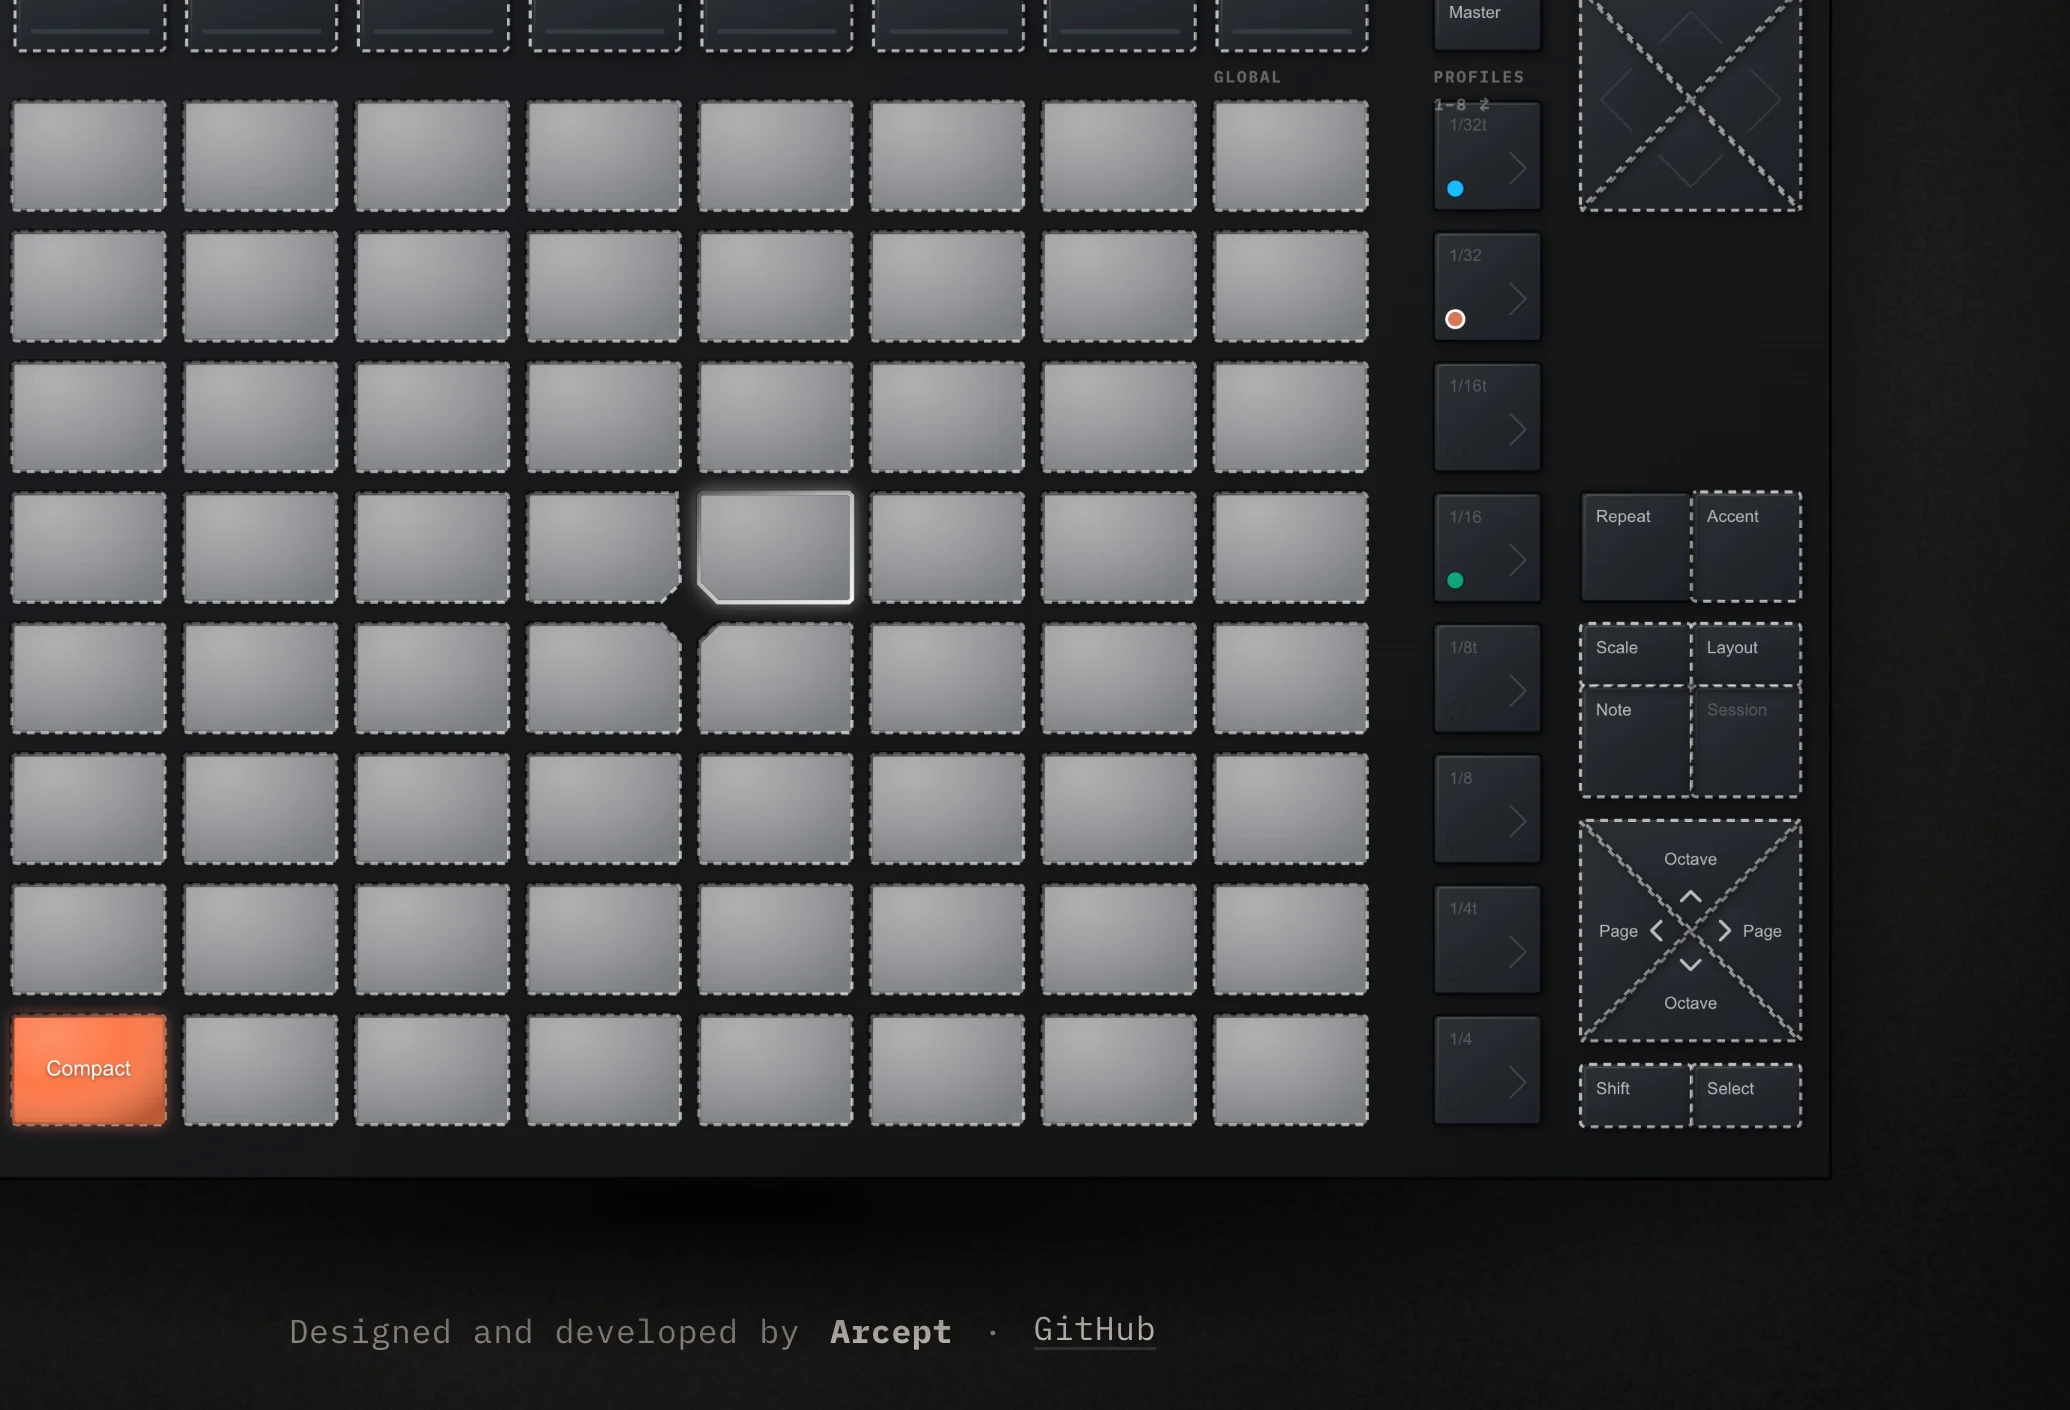
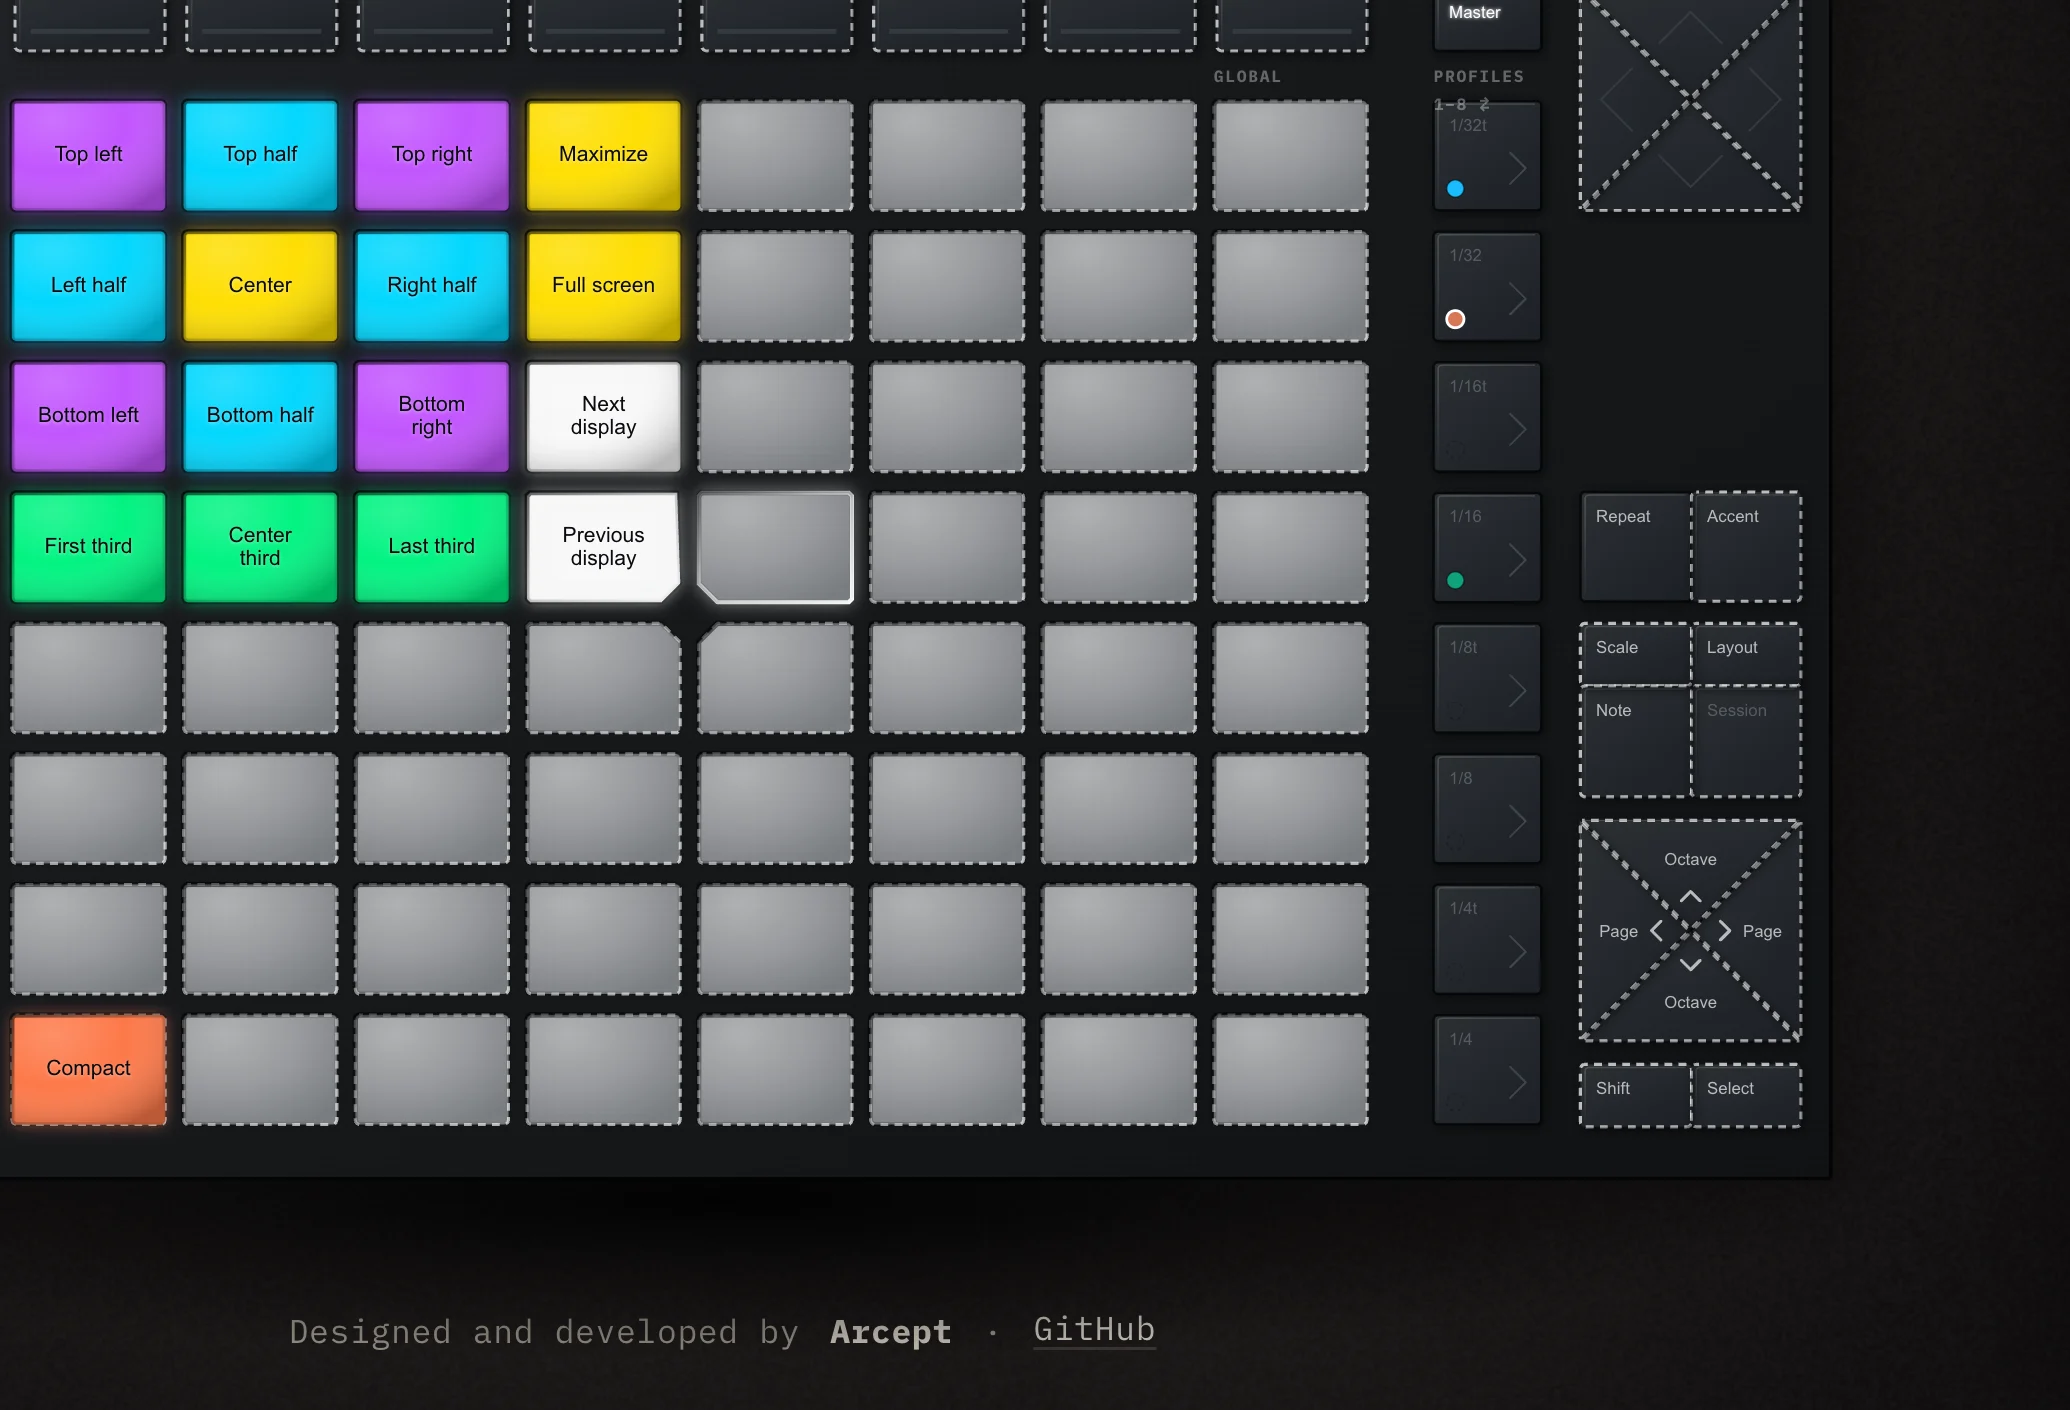
Landing page for 1.0.0: release live, three install routes, window shortcuts in features and FAQ, window screenshots recaptured

diff --git a/site/content.ts b/site/content.ts
@@ -1,7 +1,7 @@
 // All the words and links on the page, in one place. Keep this consistent with README.md.
 
-/** Flip to true when the first release is published and the .dmg exists. */
-export const RELEASE_LIVE = false;
+/** True once the .dmg is published on GitHub Releases (Push Deck 1.0.0 is out). */
+export const RELEASE_LIVE = true;
 
 export const REPO = "https://github.com/arcept/pushdeck";
 export const RELEASES = `${REPO}/releases/latest`;
@@ -13,8 +13,8 @@ export const features = [
   { title: "Profiles that follow your app", text: "Every app gets its own pads, buttons and knobs. Switch apps and the Push switches with you." },
   { title: "A live display", text: "The 960×160 screen shows clocks, timers, usage meters, the tab in front and a media player." },
   { title: "A replica to edit on", text: "A copy of your Push in a window: click a pad to set it up, mirror the display, arrange widgets." },
+  { title: "Window shortcuts", text: "Sixteen built-in pads snap and resize the front window in any profile: halves, quarters, thirds, maximize, centre, full screen, next or previous display." },
   { title: "A menu bar app", text: "Pin a profile, set the brightness or turn the Push on and off without opening anything." },
-  { title: "Set up in minutes", text: "First-run setup checks your Push and explains each macOS permission in plain words." },
   { title: "Private by design", text: "Runs on your Mac. No account, no cloud, no tracking. It listens on 127.0.0.1 only." },
 ];
 
@@ -35,9 +35,8 @@ export const steps = [
 
 export const install = [
   { id: "dmg", label: "Download", cmd: "", note: "The .dmg from GitHub Releases. Drag Push Deck to Applications.*" },
-  { id: "brew", label: "Homebrew", cmd: "brew install --cask arcept/tap/pushdeck", note: "Tap coming with the first release." },
+  { id: "brew", label: "Homebrew", cmd: "brew install --cask arcept/tap/pushdeck", note: "Installs the same app as the .dmg, from the arcept tap." },
   { id: "curl", label: "One line", cmd: "curl -fsSL https://raw.githubusercontent.com/arcept/pushdeck/main/get.sh | bash", note: "Checks the checksum. No security prompt." },
-  { id: "src", label: "From source", cmd: "./install.sh", note: "Works today. Clone the repo first." },
 ];
 
 /** Quick answers. Keep every line true to the app and the README. */
@@ -47,7 +46,8 @@ export const faq = [
   { q: "Which computers does it run on?", a: "Macs with Apple Silicon, on macOS 13 or newer. The app carries its own Python and helpers, so there is nothing else to install. The music visualizer needs macOS 14.2. There is no Windows or Linux version." },
   { q: "Does it send anything anywhere?", a: "No account, no cloud, no tracking, and no Push Deck server to send anything to. The app listens on 127.0.0.1 only, so other devices on your network can't reach it. One optional feature touches a login: live Claude usage reads the Claude desktop app's sign-in from the macOS Keychain, in memory only. It asks first and can be switched off at any time. The privacy section above lists everything it touches." },
   { q: "Why does my Mac say “unidentified developer”?", a: "Push Deck is signed ad hoc rather than with a paid Apple Developer ID, so macOS shows an “unidentified developer” warning the first time you open a downloaded copy. Right-click the app, choose Open, then Open, and you won't be asked again. The one-line installer checks the download's checksum and avoids the warning." },
-  { q: "Can I make my own profiles?", a: "Yes. A profile is an app (or a few apps) with its own pad colours, labels and actions: shortcuts, opening apps and links, typing text, running Shortcuts or shell commands, media keys. Drag actions onto the replica in the app window to set them up. In Auto mode the Push switches to a profile when its app comes to the front; Master keeps one pinned. It starts with profiles for Claude Code, Browser and ChatGPT / Codex." },
+  { q: "Can it move and resize my windows?", a: "Yes. A built-in layer of 16 pads (the top-left 4×4 block) snaps and resizes the front window in every profile: halves, quarters, thirds, maximize, centre, full screen, and next or previous display. Switch it on or off globally in Settings, or per profile (Default, On or Off). You can rename and recolour those pads, and put Close window, Minimize window or Full screen on any pad. It needs the Accessibility permission. The layouts are modelled on Rectangle." },
+  { q: "Can I make my own profiles?", a: "Yes. A profile is an app (or a few apps) with its own pad colours, labels and actions: shortcuts, opening apps and links, typing text, running Shortcuts or shell commands, media keys. Drag actions onto the replica in the app window to set them up; any pad can also close, minimize or full-screen the front window. In Auto mode the Push switches to a profile when its app comes to the front; Master keeps one pinned. It starts with profiles for Claude Code, Browser and ChatGPT / Codex." },
   { q: "Is it free? Can I contribute?", a: "It is free and open source under the MIT licence, © Arcept. The code is on GitHub and Issues are open for bugs and ideas. Pull requests are by invitation for now. Push Deck is an independent project and isn't affiliated with Ableton." },
 ];
 
@@ -55,6 +55,7 @@ export const requirements = [
   "Apple Silicon Mac, macOS 13 or newer",
   "An Ableton Push 2 on USB (not the original Push, not Push 3)",
   "The music visualizer needs macOS 14.2",
+  "Accessibility permission, for key shortcuts and the window pads",
   "Chrome, Spotify and the Claude desktop app are optional",
 ];
 

diff --git a/site/app/globals.css b/site/app/globals.css
@@ -237,7 +237,7 @@ h2 { font-size: clamp(30px, 4.4vw, 56px); line-height: 1.08; letter-spacing: -.0
 .shot { border-radius: 20px; border: 1px solid var(--line); }
 figcaption { color: var(--mut); font-size: 14px; margin-top: 12px; }
 
-.installs { display: grid; grid-template-columns: repeat(2, minmax(0, 1fr)); gap: 16px; margin-top: 40px; }
+.installs { display: grid; grid-template-columns: repeat(3, minmax(0, 1fr)); gap: 16px; margin-top: 40px; }
 .installs article { position: relative; min-width: 0; padding: 24px; border-radius: 24px; border: 1px solid var(--line); display: flex; flex-direction: column; gap: 16px; align-items: flex-start; overflow: hidden;
   background: radial-gradient(70% 90% at 0% 0%, color-mix(in srgb, var(--c) 11%, transparent), transparent 62%), #07070b; border-color: rgba(255,255,255,.13); }   /* a soft pad-colour glow in the corner, static */
 .installs header { display: flex; align-items: center; gap: 12px; flex-wrap: wrap; width: 100%; }

diff --git a/site/components/Landing.tsx b/site/components/Landing.tsx
@@ -623,7 +623,7 @@ export default function Landing({ version }: { version: string }) {
           <h2 data-reveal>{copy.installTitle}</h2>
           <div className="installs">
             {install.map((r, i) => {
-              const live = r.id === "src" || RELEASE_LIVE;
+              const live = RELEASE_LIVE;
               return (
                 <article key={r.id} data-reveal style={{ ["--c" as string]: PAD_COLORS[i * 2] }}>
                   <header>

diff --git a/site/UPDATING.md b/site/UPDATING.md
@@ -49,7 +49,7 @@ The page never reads the app's code. Nothing updates itself: a change in the app
 
 **A feature was added or removed.** Update `features` in `content.ts`, the tour if it deserves a step, and the README. Keep the page and the README saying the same thing.
 
-**Release.** Flip `RELEASE_LIVE` in `content.ts` once the .dmg exists on GitHub Releases (the buttons then link to it), and update the Homebrew and one-line install notes. The version comes from `VERSION`. Add a line to `CHANGELOG.md`.
+**Release.** `RELEASE_LIVE` is true (1.0.0 is out); the buttons link to the latest release. The install section shows the README's three routes (Download, Homebrew, One line); build-from-source lives in `docs/DEVELOPING.md` and is not linked from the page. The version comes from `VERSION`. Add a line to `CHANGELOG.md`.
 
 **Name, legal or footer text.** `disclaimer` and the footer in `content.ts` / `Landing.tsx`. The Ableton non-affiliation line, MIT licence, issues-open and "pull requests by invitation" lines must stay.
 
@@ -61,7 +61,7 @@ All captures come from a dev daemon with blank data, so no personal data, tracks
 2. Blank the dev data (this backs it up first): `tools/dev_data.sh blank`.
 3. Start the daemon from the repo: `PYTHONPATH=daemon .venv/bin/python -m push_daemon &` (the UI is at http://127.0.0.1:8472).
 4. Keep the music player off in every capture: `python scripts/capture/pin.py terminal` does it (and pins a profile). Use the repo's venv Python (it has `aiohttp`).
-5. Window captures: a Playwright page at 1600x1000 with `deviceScaleFactor: 3`, then `page.screenshot()`. Click "Hidden" in the Screen switch, then blur focus and move the mouse to a neutral spot (a tooltip stays open otherwise). Profiles follow the app in front when Auto is on: bring Terminal to the front (Claude Code), leave Chrome in front (Browser), bring ChatGPT to the front (Codex). Do that a few seconds into the capture run with `open -a <App>`, because the capture browser takes focus when it opens. Crop the 4800x3000 shots to the regions in section 1 with Pillow and save as WebP (quality about 86).
+5. Window captures: a Playwright page at 1600x1000 with `deviceScaleFactor: 3`, then `page.screenshot()`. Click "Hidden" in the Screen switch, then blur focus and move the mouse to a neutral spot (a tooltip stays open otherwise). Profiles follow the app in front when Auto is on: bring Terminal to the front (Claude Code), leave Chrome in front (Browser), bring ChatGPT to the front (Codex). Do that a few seconds into the capture run with `open -a <App>`, because the capture browser takes focus when it opens. Crop the 4800x3000 shots to the regions in section 1 with Pillow and save as WebP (quality about 86). A blank data folder shows the first-run dialog: set `onboarded` true over the websocket (like `pin.py` does) and add `localStorage push-ui-intro-seen=1`. Expand "Add an action" for `app-ui.webp` and the chip crop, then deselect any pad before the shot. Tour crops (3x, in window units): select 350,420,540,520; drag 500,520,690,470 (hold the Open URL chip over pad 3,4 for `drag-over`; drop it, name it Docs and make it cyan for `drag-done`); profile header 14,80,276,205 (Auto on, the app in front). Pin Claude Code as Master for the pad shots so a focus change cannot switch the profile. `?onboarding` previews the setup dialog, but a dev build prints a "dev build" label in it, so keep the existing `onb-*` unless the dialog changed.
 6. Display recordings: `python scripts/capture/rec.py OUT terminal:12 browser:12 chatgpt-codex:12`, then `scripts/capture/encode.sh OUT site/public/video`.
 7. Stop the daemon, restore the data with `tools/dev_data.sh restore`, then reopen the app (`open -a "Push Deck"`).
 

diff --git a/CHANGELOG.md b/CHANGELOG.md
@@ -4,6 +4,8 @@ All notable changes to Push Deck. Newest first.
 
 ## Unreleased
 
+- Landing page (pushdeck.arcept.in): download, Homebrew and one-line install are live for 1.0.0 (the "from source" card is gone; build instructions stay in docs/DEVELOPING.md), and window shortcuts are added to the features, FAQ and requirements. The window screenshots and tour close-ups were recaptured from 1.0.0, so they show the window pads and the "Add an action" shelf.
+
 ## 1.0.0 (2026-10-17)
 
 First public release. Push Deck turns an Ableton Push 2 into a per-app controller and live display for your Mac: profiles that follow the app in front, pads and buttons that send shortcuts and actions, window shortcuts, now playing, Claude and Codex usage, and a replica of the Push to set it all up on screen.
